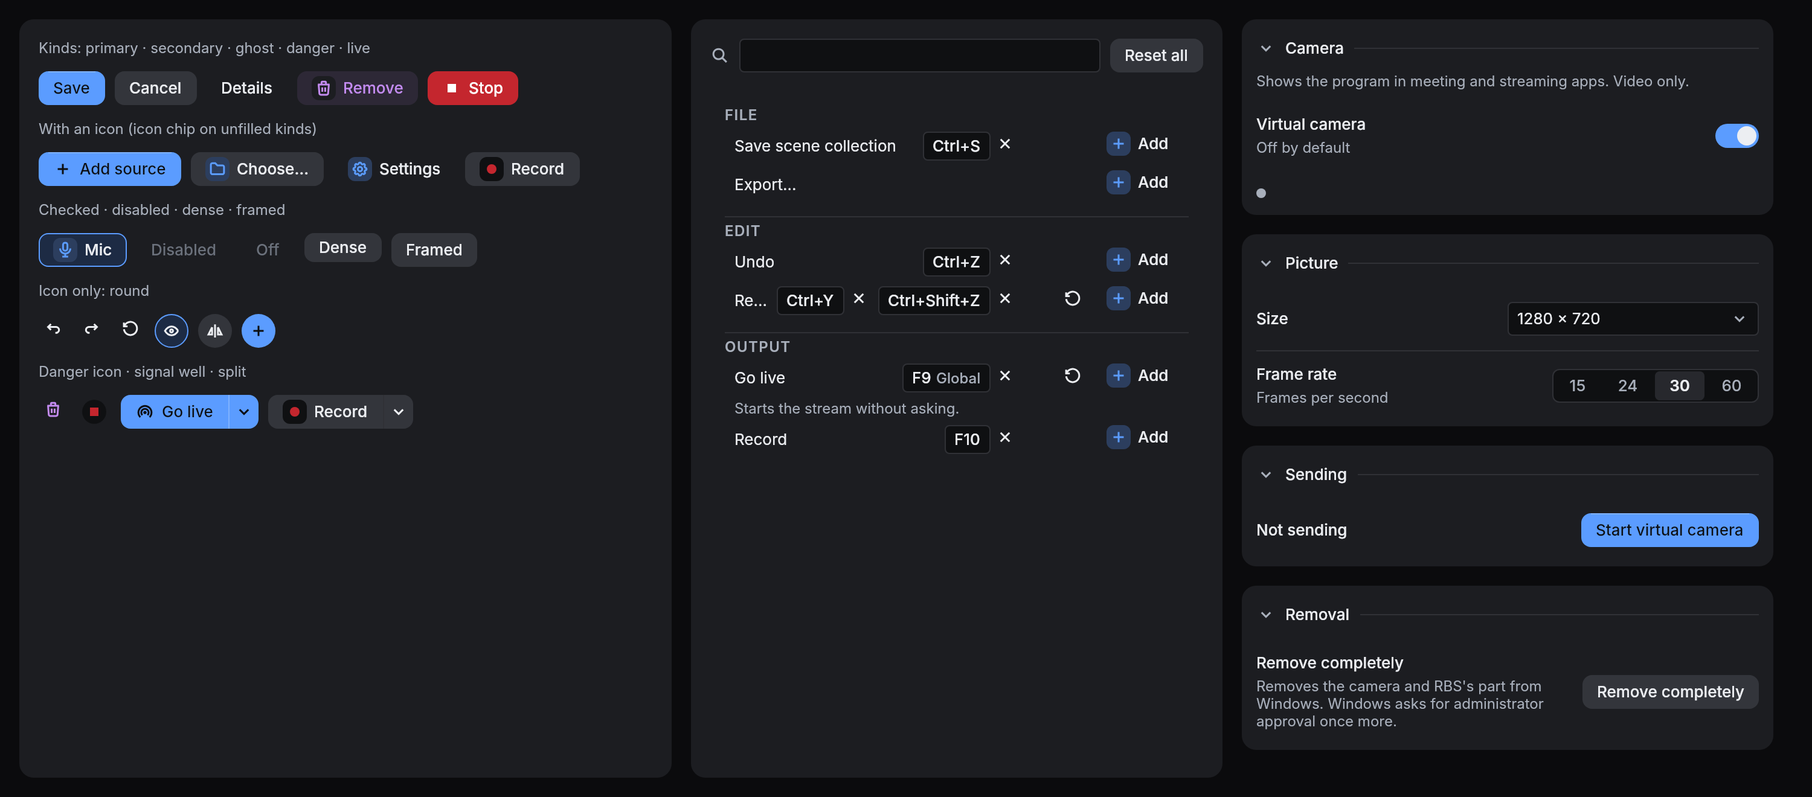
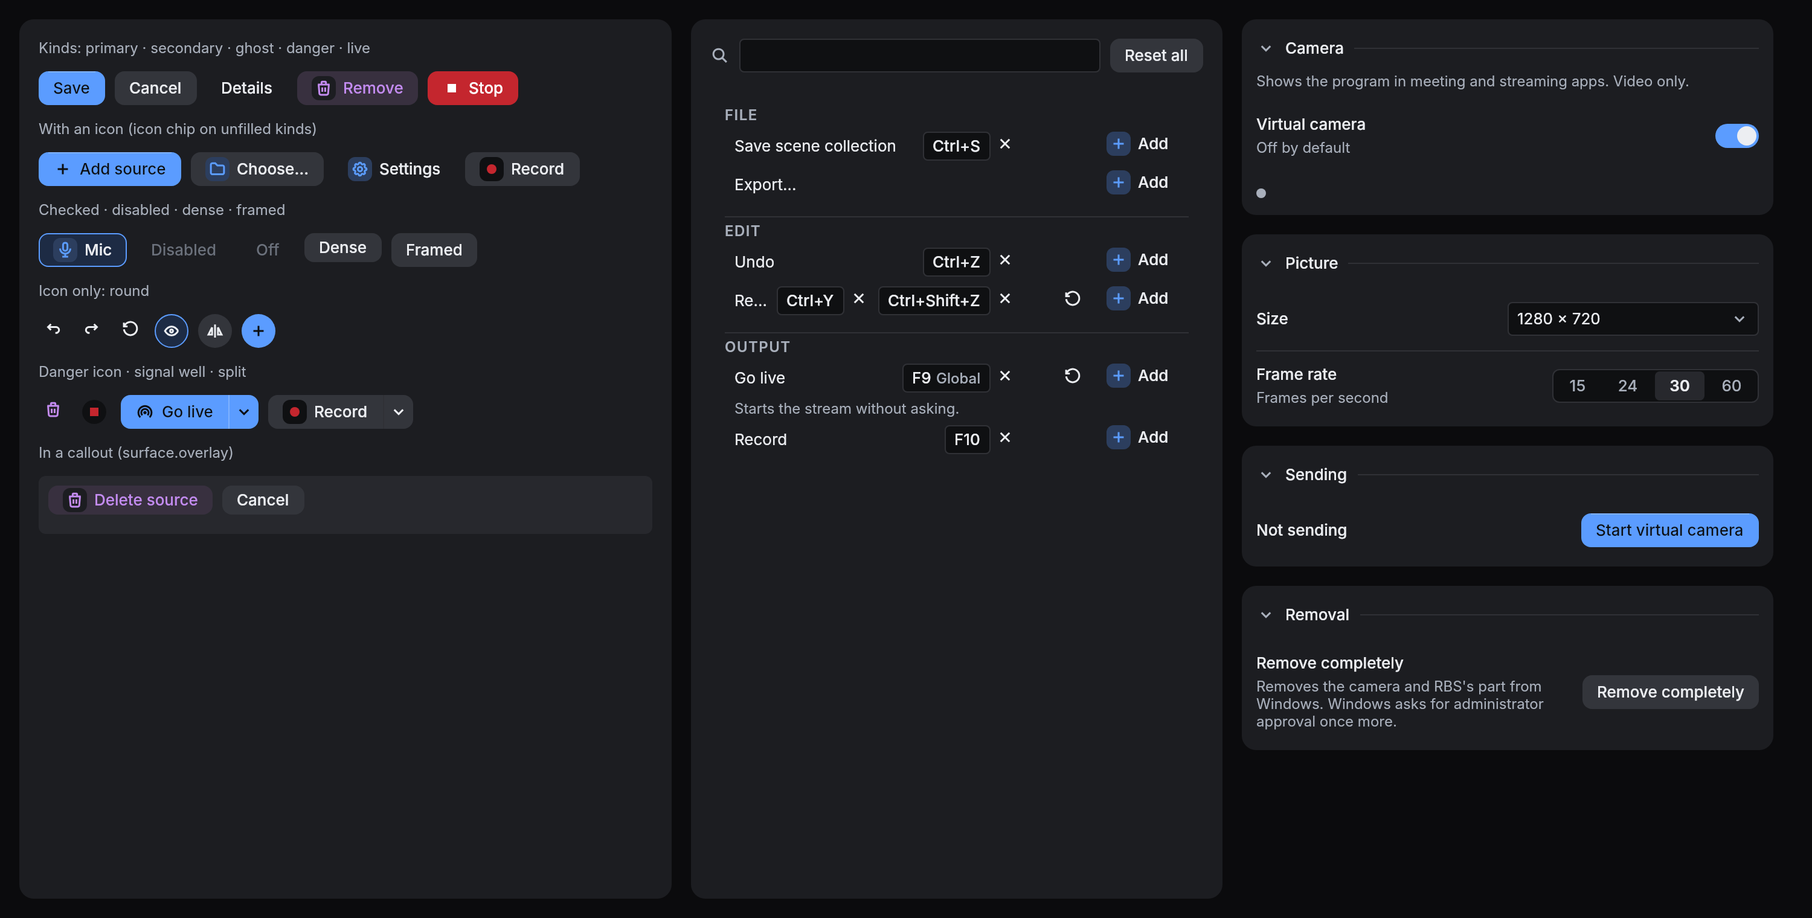
UI: Tint buttons round-2 review fixes; ADR-0118 accepted [skip ci]
- Outline flag covers the danger fill; Dark danger fill clears 1.15:1 on overlay.
- No high-contrast ring on a resting icon-only danger button.
- drawn.rs comment, ADR-0118 review record and owner approval (Accepted),
  forward notes in ADR-0112 and ADR-0076, screenshots with a callout row.

Claude-Session: https://claude.ai/code/session_01JNUCDQJ7ybkZcF3x4BHdey

diff --git a/crates/rbs-ui/src/tokens/theme.rs b/crates/rbs-ui/src/tokens/theme.rs
@@ -804,21 +804,24 @@ impl ResolvedTheme {
         }
     }
 
-    /// True when a secondary button draws its `color.border.subtle` outline: its fill
-    /// (`color.button.fill`) is closer than [`PANEL_OUTLINE_BELOW`] to one of the surfaces
-    /// a button sits on, so the fill alone would not show the button's edge (ADR-0118).
-    /// Also true when a colour is missing.
+    /// True when secondary and danger buttons draw their `color.border.subtle` outline:
+    /// a resting fill ([`BUTTON_FILLS`]) is closer than [`PANEL_OUTLINE_BELOW`] to one of
+    /// the surfaces a button sits on, so the fill alone would not show the button's edge
+    /// (ADR-0118). Also true when a colour is missing.
     pub fn button_outline(&self) -> bool {
         let get = |n: &str| self.colors.get(n).copied();
-        match get("color.button.fill") {
+        BUTTON_FILLS.iter().any(|f| match get(f) {
             Some(fill) => BUTTON_SURFACES
                 .iter()
                 .map(|n| get(n))
                 .any(|s| s.is_none_or(|s| button_outline(fill, s))),
             None => true,
-        }
+        })
     }
 }
+
+/// The resting fills of buttons that may draw an outline: secondary and danger.
+pub const BUTTON_FILLS: [&str; 2] = ["color.button.fill", "color.action.destructive.subtle"];
 
 /// The surfaces a button sits on: the window ground, panels, wells and popups.
 pub const BUTTON_SURFACES: [&str; 4] = [

diff --git a/crates/rbs-app-ui/build.rs b/crates/rbs-app-ui/build.rs
@@ -4,7 +4,9 @@ use std::fmt::Write as _;
 use std::path::{Path, PathBuf};
 use std::time::SystemTime;
 
-use rbs_ui::tokens::{BUTTON_SURFACES, THEMES, Tokens, button_outline, panel_outline};
+use rbs_ui::tokens::{
+    BUTTON_FILLS, BUTTON_SURFACES, THEMES, Tokens, button_outline, panel_outline,
+};
 
 /// `color.surface.base` -> `surface-base`; `space.1` -> `space-1`.
 fn ident(name: &str, strip: &str) -> String {
@@ -76,9 +78,9 @@ fn generate(t: &Tokens) -> Result<String, std::fmt::Error> {
             "        {{ high-contrast: {}, panel-outline: {}, button-outline: {}, font-family: \"\"",
             name == THEMES[2],
             panel_outline(c["color.surface.raised"], c["color.surface.base"]),
-            BUTTON_SURFACES
+            BUTTON_FILLS
                 .iter()
-                .any(|n| button_outline(c["color.button.fill"], c[*n]))
+                .any(|f| BUTTON_SURFACES.iter().any(|n| button_outline(c[*f], c[*n])))
         )?;
         for n in &colors {
             write!(s, ", {}: {}", ident(n, "color."), c[*n])?;

diff --git a/crates/rbs-app/src/look/drawn.rs b/crates/rbs-app/src/look/drawn.rs
@@ -67,9 +67,9 @@ const EXEMPT: [&str; 2] = ["color.text.disabled", "color.border.subtle"];
 /// Drawn pairs with no rule on purpose. The fixed live colour on `surface.raised` and
 /// `.overlay` (2.92:1 and 2.54:1 in Dark) is not a theme's to fix, and live is always
 /// shown with its words as well (U12; ADR-0057 review, item 1). The same holds for
-/// the small live dot before "REC" on the selected scene row (`accent.subtle`), and
-/// for Record's dot and a running output's stop square on the button fills, which sit
-/// at the lightness of `surface.overlay` (Tint buttons, owner decision 2026-11-14).
+/// the small live dot before "REC" on the selected scene row (`accent.subtle`). Record's
+/// dot and a running output's stop square on a button sit in a `surface.sunken` well,
+/// which the live rule covers (ADR-0118 decision 5).
 const ACCEPTED: [(&str, &str); 3] = [
     ("color.state.live", "color.surface.raised"),
     ("color.state.live", "color.surface.overlay"),

diff --git a/crates/rbs-ui/src/tokens.rs b/crates/rbs-ui/src/tokens.rs
@@ -893,7 +893,7 @@ mod tests {
         // that fails.
         let red_error = base.replacen(
             "\"color.state.error\" = \"#c38bf0\"",
-            "\"color.state.error\" = \"#ff7070\"",
+            "\"color.state.error\" = \"#ff8a8a\"",
             1,
         );
         assert!(Tokens::parse(&red_error).unwrap_err().0.contains("hue"));

diff --git a/docs/adr/0118-tint-buttons.md b/docs/adr/0118-tint-buttons.md
@@ -1,6 +1,6 @@
 # ADR-0118: Tint buttons
 
-- Status: Proposed
+- Status: Accepted
 - Date: 2026-11-14
 - Deciders: Salih (owner)
 - Supersedes in part: [ADR-0112](0112-calm-look-and-roomy-density.md) decision 4 (the secondary button's `color.border.strong` outline only; fields, dropdowns, segmented tracks and switches keep their boundaries) and [ADR-0076](0076-component-standards-and-panel-spacing.md) decision 4 (the danger button's outline; its `trash` icon and ink stay)
@@ -9,7 +9,7 @@
 
 ## Context
 
-On 2026-11-14 the owner said the app's buttons look like plain boxes drawn in HTML on an empty canvas, and asked for one rich, standard button for the whole app. Two rounds of mockups were drawn in Slint 1.18 (round 2: `docs/ui/screenshots/buttons/round2-{dark,light}.png`). Round 1 had Soft, Depth and Line. The owner took Soft's corners, and made Line's round icon-only buttons a rule. Round 2, drawn with the Skia renderer the app uses, had Glow, Tint and Key. The owner chose **Tint**: quiet tinted fills, no outline, and the lead icon on a small tinted chip. Glow looked too glassy to the owner. Livelier looks that a theme can choose are a separate decision (ADR-0120).
+On 2026-11-14 the owner said the app's buttons look like plain boxes drawn in HTML on an empty canvas, and asked for one rich, standard button for the whole app. Two rounds of mockups were drawn in Slint 1.18 (round 2: `docs/ui/screenshots/buttons/round2-{dark,light}.png`). Round 1 had Soft, Depth and Line. The owner took Soft's corners, and made Line's round icon-only buttons a rule. Round 2, drawn with the Skia renderer the app uses, had Glow, Tint and Key. The owner chose **Tint**: quiet tinted fills, no outline, and the lead icon on a small tinted chip. Glow looked too glassy to the owner. Livelier looks that a theme can choose are a separate decision (draft ADR-0120, not yet accepted).
 
 Today a secondary button is `surface.raised` with a `border.strong` outline (ADR-0112 decision 4). A danger button is outlined (ADR-0076 decision 4). There is no pressed visual. Tint changes all three, and it needs colours that no current token has.
 
@@ -26,7 +26,7 @@ Today a secondary button is `surface.raised` with a `border.strong` outline (ADR
    - `danger`: `action.destructive.subtle`, with `.subtle.hover` under the pointer and while pressed. Ink and the `trash` icon stay in `state.error` (ADR-0076). An icon-only danger button (a row's delete) rests bare like a ghost and takes the fill only under the pointer, so a list does not carry a tinted disc on every row.
    - `live`: filled with the fixed live colour and no lip (U12).
    - checked: `accent.subtle`, with `accent.subtle.hover` under the pointer and while pressed, and an `accent` outline.
-3. **Outline only where the fill does not separate.** A secondary, danger or framed button draws a `border.subtle` outline while `Theme.button-outline` is on. That boolean is true when `button.fill` is closer than 1.15:1 to any of `surface.base`, `.raised`, `.sunken` or `.overlay`. It uses the same threshold as a panel (ADR-0112 decision 3), and is computed once when the theme slot is filled (`ResolvedTheme::button_outline`).
+3. **Outline only where the fill does not separate.** A secondary, danger (with text) or framed button draws a `border.subtle` outline while `Theme.button-outline` is on. That boolean is true when either resting fill, `button.fill` or `action.destructive.subtle` (`BUTTON_FILLS`), is closer than 1.15:1 to any of `surface.base`, `.raised`, `.sunken` or `.overlay`. It uses the same threshold as a panel (ADR-0112 decision 3), and is computed once when the theme slot is filled (`ResolvedTheme::button_outline`).
 
    | `button.fill` against | base | raised | sunken | overlay | Outline |
    | --- | --- | --- | --- | --- | --- |
@@ -34,7 +34,14 @@ Today a secondary button is `surface.raised` with a `border.strong` outline (ADR
    | Light `#eff0f3` | 1.03 | 1.14 | 1.01 | 1.15 | yes |
    | High contrast `#1a1a1a` | 1.21 | 1.14 | 1.21 | 1.06 | yes |
 
-   High contrast also outlines every unfilled kind except a plain ghost in `border.strong`, as before.
+   | `action.destructive.subtle` against | base | raised | sunken | overlay |
+   | --- | --- | --- | --- | --- |
+   | Dark `#38303f` | 1.56 | 1.33 | 1.51 | 1.16 |
+   | Light `#f4ecf8` | 1.02 | 1.15 | 1.02 | 1.13 |
+
+   Danger buttons with text sit in callouts on `surface.overlay`, so the Dark danger fill is tuned to clear 1.15:1 there too.
+
+   High contrast also outlines every unfilled kind except a plain ghost and an icon-only danger button in `border.strong`, as before.
 4. **Lead icon chip.**
    - With text, the lead icon of an unfilled button sits on a chip, `size.button.chip` square with `radius.md`. The icon is `accent` on `button.chip`. On a danger button it is `state.error` on `surface.raised`.
    - The chip lets a row of commands scan by icon.
@@ -54,13 +61,15 @@ Today a secondary button is `surface.raised` with a `border.strong` outline (ADR
      - `text.primary` on `accent.subtle.hover`;
      - `text.inverse` on `accent.pressed`;
      - `state.error` on both danger fills;
-     - 3:1: `accent` on `button.chip` and `accent.subtle.hover`.
+     - 3:1: `accent` on `button.chip` and `accent.subtle.hover`;
+     - 3:1: `border.focus` on `button.fill`, `.hover`, `.pressed`, `accent.subtle.hover` and both danger fills (the focus ring is drawn inside the button, over its own fill).
    - Rules across tokens:
      - `size.icon.box` ≤ `size.button.chip` ≤ `size.control.sm`;
      - `radius.button` ≤ `size.control.sm` / 2, so the lip never gets a negative width.
    - The token file format stays 2: adding tokens with defaults is compatible (ADR-0057).
 7. **SplitButton** takes the same look: radius, fills, pressed, outline rule, chip and well.
-8. **One component.** Every button-like control is `Button`, `IconButton` (a ghost, dense, round `Button`) or `SplitButton`. Home-made button parts move onto them in later changes: caption buttons, the app menu button, monitor, add filter and number steppers.
+8. **Settings › Shortcuts.** Each command row's Reset becomes a round `IconButton` (`reset`, "Reset <command>"), the reset mark of every setting (ADR-0114 review). With the text Reset and the Add chip, the reset and add column no longer fit and Add moved out of line. The owner saw this in the screenshots and approved it on 2026-11-14.
+9. **One component.** Every button-like control is `Button`, `IconButton` (a ghost, dense, round `Button`) or `SplitButton`. Home-made button parts move onto them in later changes: caption buttons, the app menu button, monitor, add filter and number steppers.
 
 ## Consequences
 
@@ -78,7 +87,22 @@ Today a secondary button is `surface.raised` with a `border.strong` outline (ADR
 
 ## Alternatives considered
 
-- **Glow** (sheen, a glow under the main action, soft shadows): the owner found it too glassy. It needs alpha and blur, which the opaque-colour token model does not have. Livelier looks a theme can choose go to ADR-0120.
+- **Glow** (sheen, a glow under the main action, soft shadows): the owner found it too glassy. It needs alpha and blur, which the opaque-colour token model does not have. Livelier looks a theme can choose go to a separate ADR (draft ADR-0120).
 - **Key** (a darker bottom edge and a press): heavier than the calm look wants as the default.
 - **Keep the outline on every secondary button**: draws a box around every command, which is what the owner asked to leave behind. The outline stays only where the fill alone does not show the edge.
 - **Accept the live dot on the button fills**: Dark gives 2.0 to 2.4:1. These are new tokens chosen freely, so the "not a theme's to fix" reason does not hold. Rejected for the well.
+
+## Review
+
+- 2026-11-14, independent AI session (architecture-review, ui-review), round 1 on the implementation (PR #349): changes requested. 3 major, 7 minor, 6 nits. Resolutions:
+  - Major: this ADR was written (1); the outline flag (3); the signal well for the live dot, with the accepted list back to three pairs (5).
+  - Minor: cross-token rules (6); spec lines; SplitButton (7); danger fills renamed to `action.destructive.subtle`; icon-only danger rests bare; user themes in Consequences; focus ring rules (6).
+  - Nits: chip in high contrast retuned; `lead-ink` comment; comments; square icon-only toolbar buttons; pressed for danger and checked; test sample comment.
+- 2026-11-14, independent AI session, round 2: changes requested. 1 major, 3 minor, 4 nits. Resolutions:
+  - N1: the outline flag covers the danger fill, and the Dark danger fill clears 1.15:1 on `surface.overlay` (3).
+  - N2: the stale accepted-list comment in `drawn.rs` was corrected.
+  - N3: an icon-only danger button has no high-contrast ring at rest (3).
+  - N4: the Shortcuts change is recorded (8).
+  - Nits: the ADR-0120 reference marked as a draft; focus rules listed (6); forward notes added to ADR-0112 and ADR-0076. Dark `text.secondary` on `button.pressed` stays at 4.54:1, above the 4.5:1 rule.
+  - Left open (nit, round 1 #11): the icon chip is close to `button.hover` under the pointer. The icon keeps its accent colour, so the button still reads.
+- 2026-11-14: owner approval ("onaylıyorum bekleyenleri", 17:07) of the screenshots and this ADR. Status Accepted.

diff --git a/docs/specs/ui-design-system.md b/docs/specs/ui-design-system.md
@@ -192,7 +192,7 @@ Every panel and window is built from these components with these shapes ([ADR-00
 | Start a group of fields | `SectionHeader` | Title in sentence case, `type.label`, `text.primary` (ADR-0112 decision 5). No rule after the title. `size.section.gap` above (none for the first), `size.field.gap` below. Optional `chevron-down` (open) / `chevron-right` (closed): the whole row is a button with its expanded state and a `surface.overlay` plate under the pointer; a closed section draws nothing and takes no room. |
 | A label with a field | Field / `NumberField` / `Toggle` rows | `size.field.gap` between rows and between the two columns of a grid; the label in `text.secondary` inside or above the field. |
 | An explanation | Hint text | `type.caption`, `text.secondary`, word-wrapped, `size.field.gap` above, never touching the next section's header. |
-| An action | `Button` | Tint look (ADR-0118): soft corners (`radius.button`), and a button with only an icon is round (its box square). `primary` (filled `accent`, `accent.hover` under the pointer, `accent.pressed` while pressed, a hairline of `accent.hover` along the top while it rests, one per window or section), `secondary` (a quiet `button.fill`; `button.hover` and `button.pressed`; a `border.subtle` outline only while `Theme.button-outline` is on, that is while the fill is closer than 1.15:1 to a surface; a checked one uses `accent.subtle`, `accent.subtle.hover` under the pointer and while pressed, with an `accent` outline), `ghost` (no fill until the pointer brings `button.hover`, unless `framed`, which keeps `button.fill` at rest — the mixer mute), `danger` (`action.destructive.subtle` fill, `.subtle.hover` under the pointer and while pressed, the outline rule of secondary; icon-only, it rests bare and takes the fill only under the pointer; ink and the `trash` icon in `color.state.error`), `live` (only to stop a live or recording output, filled with the fixed live colour; no hairline, owner 2026-11-14). With text, the lead icon of an unfilled kind sits on a `button.chip` chip (`size.button.chip`, `radius.md`) in `accent` (danger: `state.error` on `surface.raised`), so a row of commands scans by icon. A signal icon (`lead-signal` with `lead-ink`: Record's live dot, a running output's stop square) sits in a `surface.sunken` well instead, with or without text, so `state.live` keeps its 3:1 rule. High contrast adds a `border.strong` outline to every unfilled kind but a plain ghost (a framed or checked ghost keeps it). Colours are the button's; a caller never sets one. |
+| An action | `Button` | Tint look (ADR-0118): soft corners (`radius.button`), and a button with only an icon is round (its box square). `primary` (filled `accent`, `accent.hover` under the pointer, `accent.pressed` while pressed, a hairline of `accent.hover` along the top while it rests, one per window or section), `secondary` (a quiet `button.fill`; `button.hover` and `button.pressed`; a `border.subtle` outline only while `Theme.button-outline` is on, that is while this fill or the danger fill is closer than 1.15:1 to a surface; a checked one uses `accent.subtle`, `accent.subtle.hover` under the pointer and while pressed, with an `accent` outline), `ghost` (no fill until the pointer brings `button.hover`, unless `framed`, which keeps `button.fill` at rest — the mixer mute), `danger` (`action.destructive.subtle` fill, `.subtle.hover` under the pointer and while pressed, the outline rule of secondary; icon-only, it rests bare and takes the fill only under the pointer; ink and the `trash` icon in `color.state.error`), `live` (only to stop a live or recording output, filled with the fixed live colour; no hairline, owner 2026-11-14). With text, the lead icon of an unfilled kind sits on a `button.chip` chip (`size.button.chip`, `radius.md`) in `accent` (danger: `state.error` on `surface.raised`), so a row of commands scans by icon. A signal icon (`lead-signal` with `lead-ink`: Record's live dot, a running output's stop square) sits in a `surface.sunken` well instead, with or without text, so `state.live` keeps its 3:1 rule. High contrast adds a `border.strong` outline to every unfilled kind but a plain ghost and an icon-only danger button (a framed or checked ghost keeps it). Colours are the button's; a caller never sets one. |
 
 **Interaction patterns** ([ADR-0094](../adr/0094-ui-interaction-patterns-and-tabler-icon-set.md), components added by the migration steps listed there; until a component exists the rule applies to new and edited UI by the nearest existing component):
 

diff --git a/docs/specs/themes.md b/docs/specs/themes.md
@@ -119,7 +119,7 @@ Roomy spacing (ADR-0112 decision 9) does not write the theme either. While `dens
 
 **Panel outline** (ADR-0112 decision 3). Each slot also says whether docked panels and Settings cards draw their `color.border.subtle` outline (`Theme.panel-outline`): yes when the slot's `color.surface.raised` and `color.surface.base` differ by less than 1.15:1 (`rbs_ui::tokens::PANEL_OUTLINE_BELOW`), so colour alone would not separate a panel from the window ground. The built-in Dark (1.17) and Light (1.18) draw none; High contrast (1.06) and a user theme with close surfaces keep it. It is computed once when the slot is filled.
 
-**Button outline** (ADR-0118). Each slot also says whether secondary, danger and framed buttons draw their `color.border.subtle` outline (`Theme.button-outline`, `ResolvedTheme::button_outline`): yes when `color.button.fill` differs by less than 1.15:1 from any of `color.surface.base`, `.raised`, `.sunken` or `.overlay` (`BUTTON_SURFACES`). The built-in Dark draws none; Light and High contrast keep it. A user theme that recolours the surfaces but not the button colours keeps the base theme's fills, and the outline follows; a fill that fails a contrast rule is a colour warning (ADR-0072).
+**Button outline** (ADR-0118). Each slot also says whether secondary, danger and framed buttons draw their `color.border.subtle` outline (`Theme.button-outline`, `ResolvedTheme::button_outline`): yes when a resting fill (`color.button.fill` or `color.action.destructive.subtle`, `BUTTON_FILLS`) differs by less than 1.15:1 from any of `color.surface.base`, `.raised`, `.sunken` or `.overlay` (`BUTTON_SURFACES`). The built-in Dark draws none; Light and High contrast keep it. A user theme that recolours the surfaces but not the button colours keeps the base theme's fills, and the outline follows; a fill that fails a contrast rule is a colour warning (ADR-0072).
 
 `UserData::appearance()` returns the defaults and the reason when the file cannot be read; `set_appearance(&WriterLock, ..)` writes it through the user data writer. A theme id is `builtin:<name>` or a library id. An id that names no usable theme falls back to `builtin:<base>` when the theme's `base` can be read (envelope and `base` key only), else to `builtin:dark` (for `dark` and `theme`) or `builtin:light` (for `light`); the app shows a note and does not rewrite the file. **Deleting:** an id whose theme file is gone (the theme was deleted) is not such a case: deleting a theme in use sets the slots that name it to `builtin:<base>` of the deleted theme and saves the choice, and at start (before the user data writer lock is taken) a slot naming a missing file is set to `builtin:dark` (`dark`, `theme`) or `builtin:light` (`light`) and saved, with no note. `rbs-app --reset-appearance` moves `appearance.toml` to `appearance.toml.reset.bak` (numbered when taken) and starts with the defaults.
 

diff --git a/docs/adr/README.md b/docs/adr/README.md
@@ -126,5 +126,5 @@ An ADR records one decision that is hard to reverse or affects more than one cra
 | [0115](0115-ui-stop-rule-for-agents.md) | A stop rule for UI changes by AI agents, with counted checks and an exceptions register | Accepted |
 | [0116](0116-audio-only-recording.md) | Audio recording, an output that writes the mix without a picture | Closed: shipped as WAV/FLAC recording formats instead |
 | [0117](0117-still-sources-as-images.md) | Still sources are recorded separately as PNG images, not video | Accepted |
-| [0118](0118-tint-buttons.md) | Tint buttons: soft tinted fills, round icon-only buttons, an outline only where the fill does not separate | Proposed |
+| [0118](0118-tint-buttons.md) | Tint buttons: soft tinted fills, round icon-only buttons, an outline only where the fill does not separate | Accepted |
 | [0119](0119-where-separate-files-are-encoded.md) | Separate files take the cheapest path per source, and the user picks where the rest is encoded | Accepted |

diff --git a/docs/adr/0112-calm-look-and-roomy-density.md b/docs/adr/0112-calm-look-and-roomy-density.md
@@ -82,3 +82,4 @@ Round 3 (2026-11-13, independent AI session; this text: changes requested with o
 Follow-up check by the same reviewer (2026-11-13, texts at `26c3d03`): approve, with one non-blocking concern, that the Light hairline fell to 1.01 on a popup, where menu dividers have no fill to carry them. Fixed here: Light `color.border.subtle` is `#d0d3da`, which gives 1.15 on a popup (today 1.11), and the token tests pass with it as before.
 
 - 2026-11-13: Owner (Salih) accepts this ADR after the independent review recorded above (rounds 1 to 3 and the follow-up check; reviewer verdict: approve). Status: Accepted.
+- 2026-11-14: decision 4 is superseded in part by [ADR-0118](0118-tint-buttons.md) (Tint buttons): a secondary button has no `border.strong` outline; it draws a `border.subtle` outline only while its fill does not separate from a surface. Fields, dropdowns, segmented tracks and switches keep their boundaries.

diff --git a/docs/adr/0076-component-standards-and-panel-spacing.md b/docs/adr/0076-component-standards-and-panel-spacing.md
@@ -41,3 +41,4 @@ Round 1, independent AI session (2026-11-08): changes requested. Resolved: Tabs 
 Round 2, independent AI session (2026-11-08): approve. Round 1 items verified in code. Minor items done: wording "checked" (Slint has no selected property) and tests for the across-tokens rule and the non-themeable tab indicator. Noted, not changed: Tabs arrows are fixed Left/Right (no right-to-left handling) and Tabs have no disabled state. The owner approved the decision and the result (2026-11-08); status Accepted.
 
 Note (2026-11-08): saving the section state in the workspace file is done by [ADR-0078](0078-saved-section-state-and-shared-section-components.md).
+- 2026-11-14: decision 4 is superseded in part by [ADR-0118](0118-tint-buttons.md) (Tint buttons): a danger button is a destructive tint, with no outline unless its fill does not separate from a surface; its `trash` icon and `state.error` ink stay.
